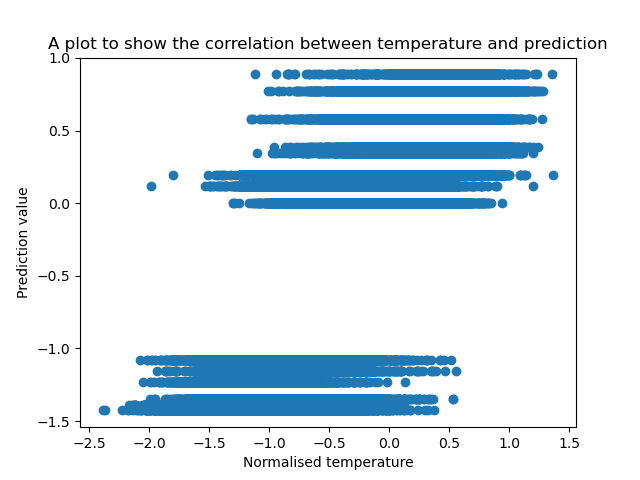
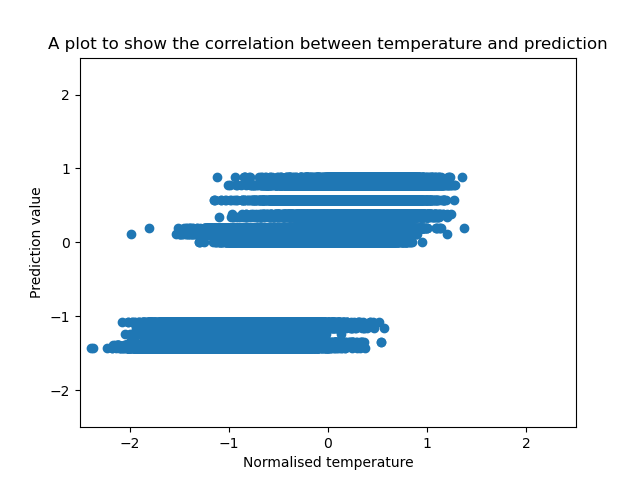
Changed x and y axes to -2.5 - 2.5.

diff --git a/scripts/003/003_plot_correlation.py b/scripts/003/003_plot_correlation.py
@@ -12,8 +12,8 @@ y = df['prediction']
 
 plt.scatter(y, x)
 plt.title('A plot to show the correlation between temperature and prediction')
-plt.yticks(np.arange(-2.5, 2.5, 0.5))
-plt.xticks(np.arange(-2.5, 2.5, 0.5))
+plt.ylim(-2.5, 2.5)
+plt.xlim(-2.5, 2.5) 
 plt.xlabel('Normalised temperature')
 plt.ylabel('Prediction value')
 plt.plot()
